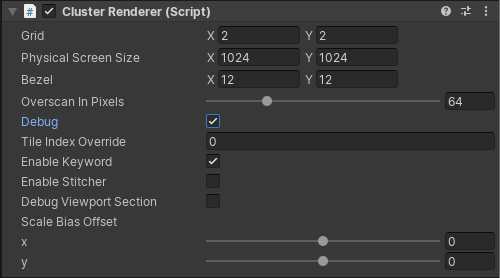
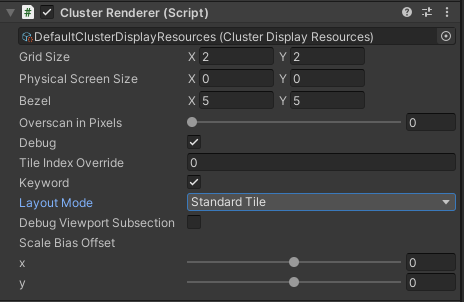
Updating documentation

Changed region(s): [[0.0, 0.0, 1.0, 1.0], [0.6034, 0.8345, 0.6638, 0.8921]]

diff --git a/source/com.unity.cluster-display.graphics/Documentation~/index.md b/source/com.unity.cluster-display.graphics/Documentation~/index.md
@@ -22,7 +22,7 @@ We suggest using [Git Submodules](https://git-scm.com/book/en/v2/Git-Tools-Submo
 ) to download the package to more easily update.
 
 ## Requirements
-This package depends on a [custom branch of HDRP](https://github.com/Unity-Technologies/ScriptableRenderPipeline/tree/hdrp-xr-public-layout-api-cluster-display). The changes in the custom branch are not available through the Package Manager and must checked out and referenced locally in the project's `manifest.json` file.
+This package depends on a [custom branch of Graphics](https://github.com/Unity-Technologies/ScriptableRenderPipeline/tree/cluster-display/backport/v8.3.1) or [custom branch of Graphics for HDRP XR](https://github.com/Unity-Technologies/ScriptableRenderPipeline/tree/cluster-display/backport-xr/v8.3.1). The changes in the custom branch are not available through the Package Manager and must checked out and referenced locally in the project's `manifest.json` file.
 
 This package also has a dependency on [com.unity.cluster-display](https://github.com/Unity-Technologies/ClusterDisplay/source/com.unity.cluster-display) for the core Cluster Display functionality.
 
@@ -108,19 +108,30 @@ However, if we use a high *scatter* value, artefacts become apparent despite ove
 
 #### ClusterRenderer
 
+Cluster Display supports SRP, HDRP and URP. However, to toggle between HDRP and URP, you must use the following scripting define symbols:
+* `CLUSTER_DISPLAY_URP` For enabling cluster display render pipeline for URP. 
+* `CLUSTER_DISPLAY_HDRP` For enabling cluster display render pipeline for HDRP.
+
+#### XR vs Standard Rendering
+Previously, cluster display worked with a custom HDRP branch that refactored the XR api to become public instead of internal. However, in order to improve compatibility with various SRPs, cluster display has been refactored to support XR mode, standard HDRP mode and standard URP mode. The difference being that XR API will render multiple views using single pass stereo, while the standard mode will render the camera in a for loop. To enable XR mode, you will need to use HDRP and the following scripting define symbols: `CLUSTER_DISPLAY_XR` and `CLUSTER_DISPLAY_HDRP`.
+
 To enable Cluster Display graphics features for a project, add a `ClusterRenderer` component to the scene to be displayed. Only one component of that type is expected to be active at any given time. The `ClusterRenderer` component is responsible for managing projection, overscan and activation of Cluster Display-specific shader features (in HDRP). It also offers some debugging features. This component comes also has a custom inspector.
 
 In normal mode, the inspector exposes `Grid` size, `Physical Screen Size`, `Bezel` and `Overscan`. If no bezel is needed both fields can be safely ignored. Leaving `Physical Screen Size` to zero simply bypasses bezel.
+
 ![ClusterRenderer Inspector Normal](images/ClusterRenderer-InspectorNormal.png)
 
 When `Debug` is enabled, some debugging options are available:
+
 ![ClusterRenderer Inspector Debug](images/ClusterRenderer-InspectorDebug.png)
 
 * **Tile Index Override**: the tile index is typically inferred from the synchronization/networking API, but this field lets users manually override the tile index for debugging purposes. The tile displayed by the machine may be manually changed at runtime. Please note that this override is always used when debug mode is active.
 
 * **Enable Keyword**: a shader keyword is used to enable/disable Cluster Display related shader features (implemented in HDRP and user code). Toggling this at runtime lets users compare *normal* vs. *Cluster* rendering. Useful for validating Cluster-specific shader modifications.
 
-* **Enable Stitcher**: when the stitcher is enabled, a single machine will render **all** cluster tiles and compose them appropriately. This allows users to preview the full cluster output without deploying on actual cluster hardware. Please keep in mind that tests on actual cluster hardware are still necessary as the stitcher does not replicate all cluster behavior. For example, with the stitcher, there is only one update and one camera render per tile, while on actual cluster hardware there will be one update followed by one camera render on each cluster machine.
+* **Layout Mode**: Setting the layout mode allows you to switch between **tile** which previews what a single node will render, and the stitcher mode which enables a single machine to render **all** cluster tiles and compose them appropriately. This allows users to preview the full cluster output without deploying on actual cluster hardware. Please keep in mind that tests on actual cluster hardware are still necessary as the stitcher does not replicate all cluster behavior. For example, with the stitcher, there is only one update and one camera render per tile, while on actual cluster hardware there will be one update followed by one camera render on each cluster machine.
+
+* **Bezel Color**: This allows you to manipulate the color of the bezels in between the tiles, this can be handy for debugging.
 
 Users can take control of the viewport subsection rendered by the machine. In that case, the tile index is bypassed and the rectangle corresponding to the viewport subsection can be tweaked directly.
 
